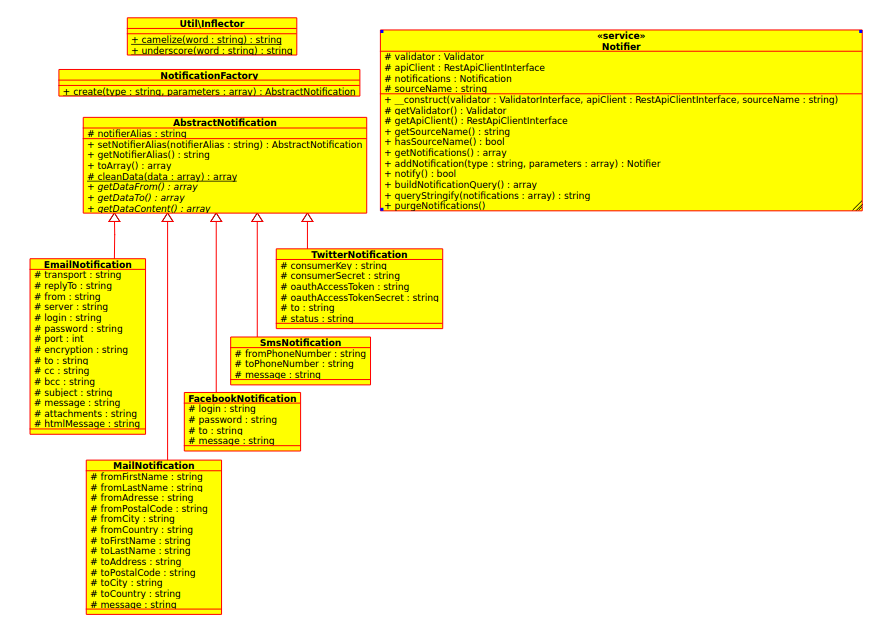
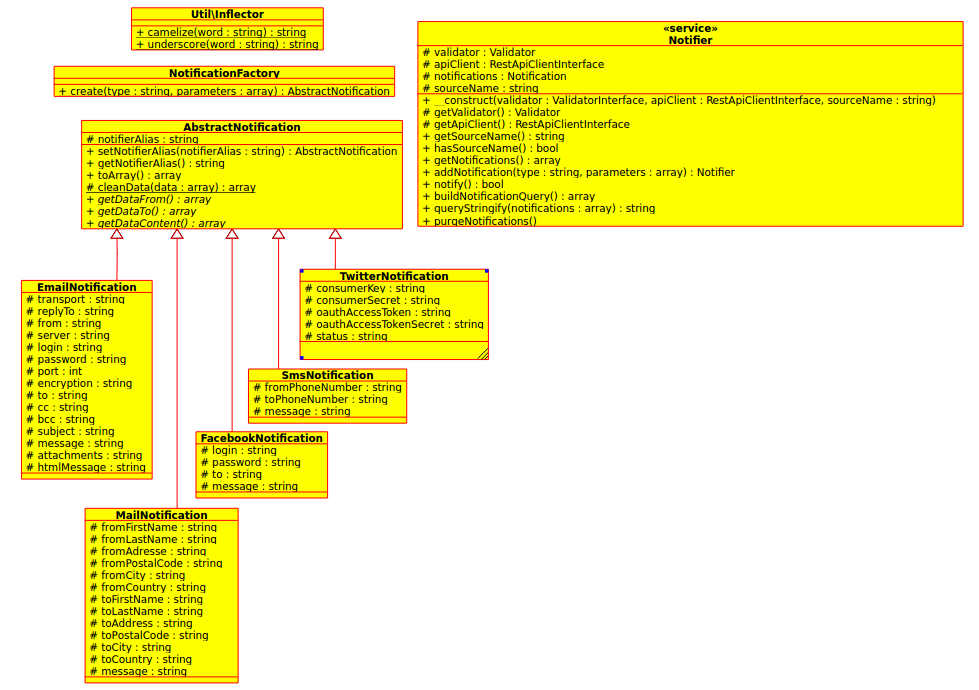
Remove "To" field from twitterNotification, update documentation

Changed region(s): [[0.0, 0.0, 0.9942, 1.0]]

diff --git a/Notification/TwitterNotification.php b/Notification/TwitterNotification.php
@@ -35,11 +35,6 @@ class TwitterNotification extends AbstractNotification
     /**
      * @Assert\NotBlank()
      */
-    protected $to;
-
-    /**
-     * @Assert\NotBlank()
-     */
     protected $status;
 
     /**
@@ -135,29 +130,6 @@ class TwitterNotification extends AbstractNotification
     }
 
     /**
-     * Set to
-     *
-     * @param  string $to
-     * @return TwitterNotification
-     */
-    public function setTo($to)
-    {
-        $this->to = $to;
-
-        return $this;
-    }
-
-    /**
-     * Get to
-     *
-     * @return  string
-     */
-    public function getTo()
-    {
-        return $this->to;
-    }
-
-    /**
      * Set status
      *
      * @param  string $status
@@ -199,9 +171,7 @@ class TwitterNotification extends AbstractNotification
      */
     public function getDataTo()
     {
-        return array(
-            'to' => $this->getTo()
-        );
+        return false;
     }
 
     /**

diff --git a/Notification/AbstractNotification.php b/Notification/AbstractNotification.php
@@ -45,12 +45,17 @@ abstract class AbstractNotification
      */
     public function toArray()
     {
-        return array(
+        $array = array(
             'notifierAlias' => $this->getNotifierAlias(),
             'from'          => self::cleanData($this->getDataFrom()),
-            'to'            => self::cleanData($this->getDataTo()),
             'content'       => self::cleanData($this->getDataContent())
         );
+
+        if ($this->getDataTo()) {
+            $array['to'] = self::cleanData($this->getDataTo());
+        }
+
+        return $array;
     }
 
     /**

diff --git a/Resources/doc/notification.md b/Resources/doc/notification.md
@@ -300,12 +300,6 @@ $response2 = $this->get('notification_api_client.notifier')
 |----------|--------------|------------
 | true     | string value | The notifier alias used to define a configuration
 
-#### Field "to" :
-
-| Subfield    | Optional | Requirements | Description
-|-------------|----------|--------------|------------
-| to          | false    | string value | Recipient twitter address
-
 #### Field "from" :
 
 | Subfield                  | Optional | Requirements | Description
@@ -332,7 +326,6 @@ The function `notify()` returns a response from an API Client.
 ```php
 $response1 = $this->get('notification_api_client.notifier')
     ->addNotification("twitter", array(
-        "to"                        => "toto",
         'consumer_key'              => "your_consumer_key",
         'consumer_secret'           => "your_consumer_secret",
         'oauth_access_token'        => "your_oauth_access_token",
@@ -347,7 +340,6 @@ $response1 = $this->get('notification_api_client.notifier')
 $response2 = $this->get('notification_api_client.notifier')
     ->addNotification("twitter", array(
         "notifierAlias" => "Your_notifierAlias",
-        "to"            => "toto",
         "status"        => "your twitter status"
     ))
     ->notify()
